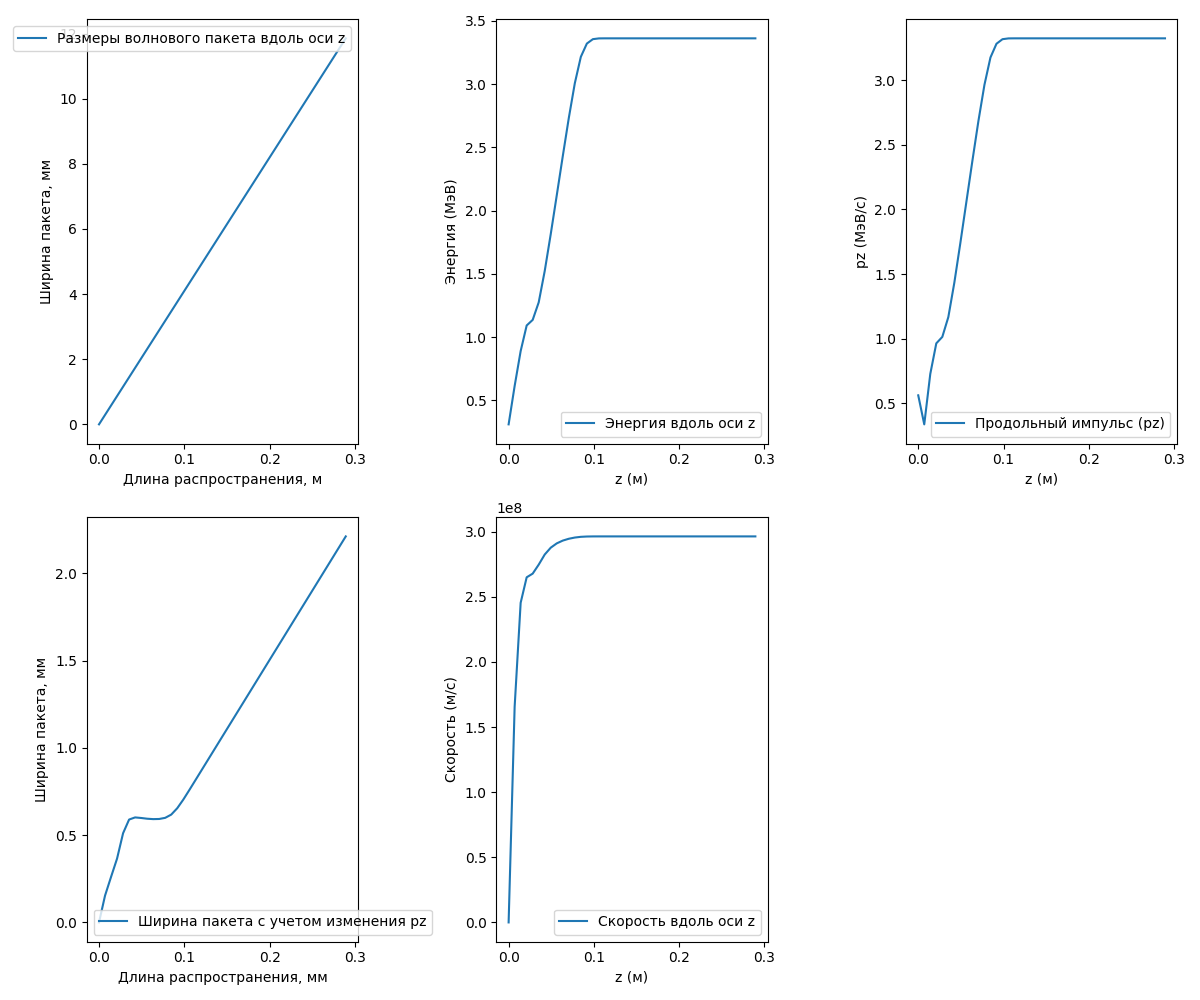
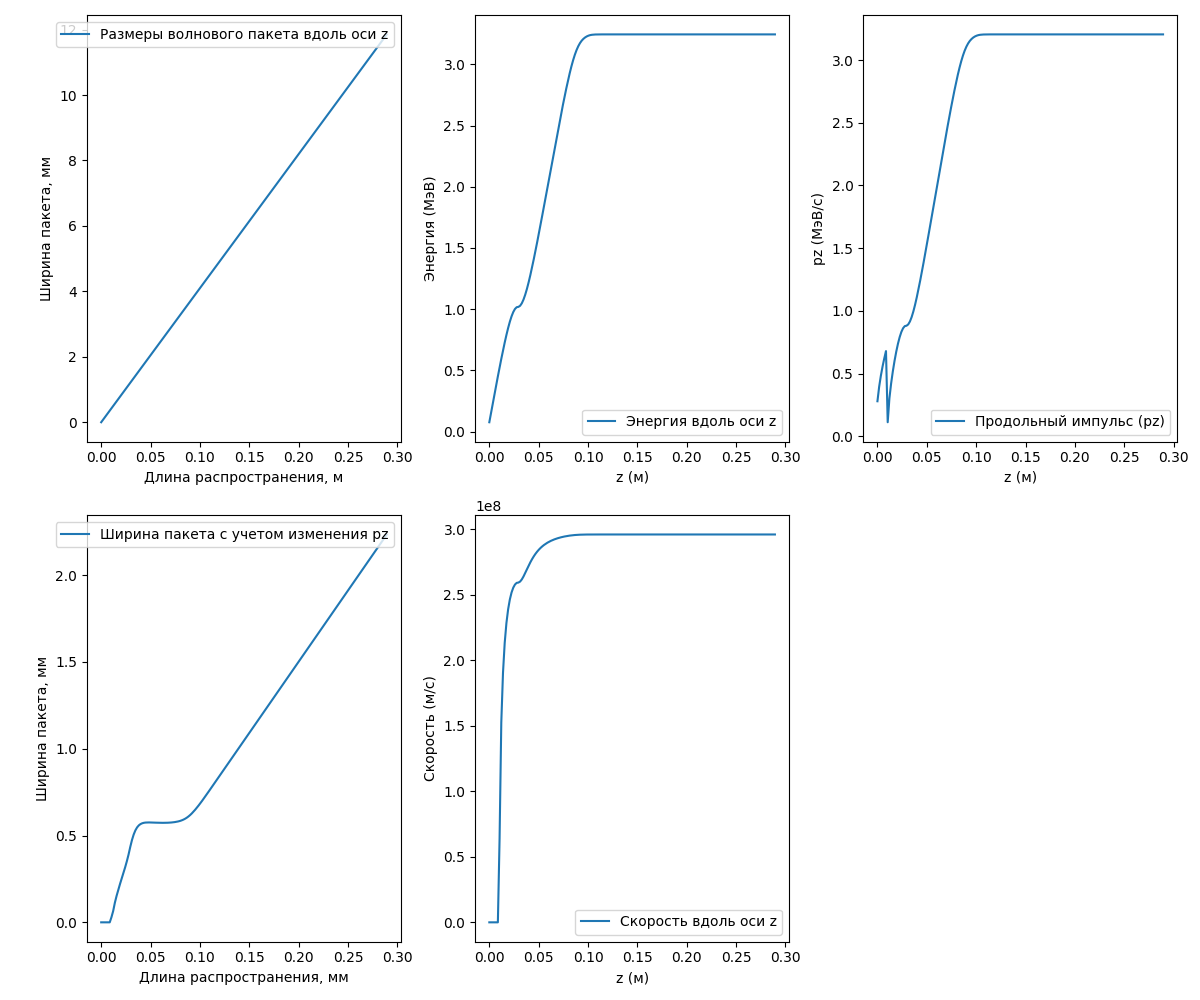
Да-да

diff --git a/test polygon.py b/test polygon.py
@@ -184,7 +184,7 @@ length = z[-1]
 pz_MeV, v = longitudinal_momentum(W_MeV, ME_MeV, c)
 
 # Увеличение шага интегрирования
-increase_factor = 4  # Увеличиваем шаг
+increase_factor = 1  # Увеличиваем шаг
 z_new = np.linspace(z[0], z[-1], len(z) // increase_factor)  # Новый массив z с увеличенным шагом
 
 # Интерполяция поля Ez для нового массива z
